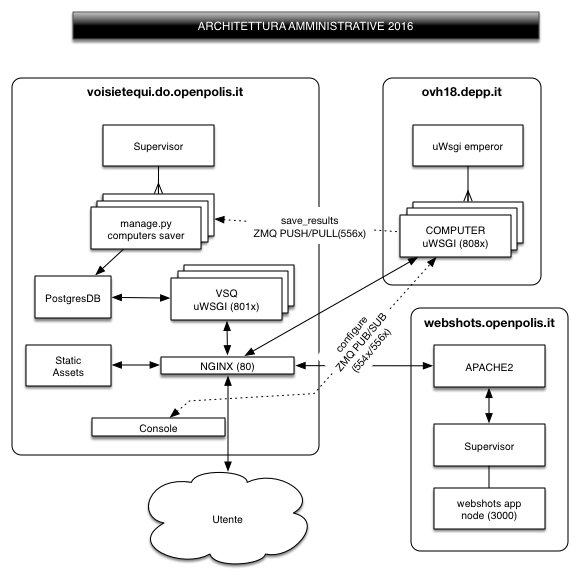
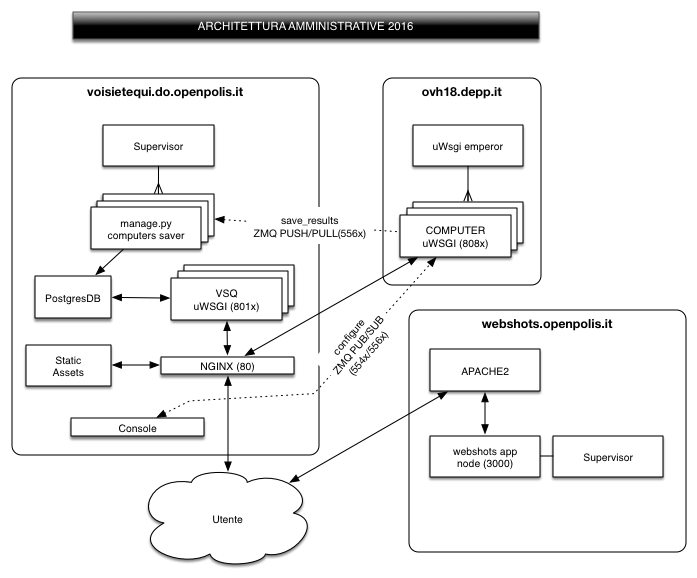
aggiornamento documentaazione

diff --git a/docs/architecture.rst b/docs/architecture.rst
@@ -2,28 +2,84 @@ Architettura
 ------------
 L'architettura del sistema, con le componenti, è illustrata in questo schema:
 
-.. image:: https://raw.github.com/openpolis/voisietequi/master/docs/images/architettura.png
+.. image:: https://raw.github.com/openpolis/voisietequi/master/docs/images/architettura2016.png
    :height: 200
    :width: 600
    :scale: 50
    :alt: Architettura dei componenti
 
-Il modulo **vsq** è l'app server per tutte le parti dinamiche, tranne le risposte degli utenti.
-E' un'applicazione django, si appoggia su un DB postgres.
 
-Il modulo **computer** effettua il calcolo del grafico (tramite octave) a partire dalle risposte dell'utente.
-E' un'applicazione web.py, si appoggia su un DB sqlite locale, è configurabile dinamicamente,
-per fornire la posizione di un utente in base a un set di domande.
+VSQ
+===
+Il modulo **vsq** è l'applicazione django che permette la visualizzazione e la gestione del sito
+relativo a una singola istanza. Ad esempio: http://rom2016.voisietequi.it. 
+Sia la parte di front-end che quella di back-end dell'applicazione sono generate da questo modulo, 
+che, si appoggia su un DB postgres.
 
-Il modulo utilizza un sistema di messaggistica (**0mq**) per mettere in coda le richieste
-di scrittura delle risposte utente nel DB.
 
-I moduli vsq e computer sono applicazioni wsgi, servite da **uwsgi**.
+COMPUTER
+========
+Il modulo **computer** effettua il calcolo della posizione degli utenti o dei partiti (tramite octave) a partire dalle risposte date.
+E' configurato come un servizio esterno *disaccoppiato* rispetto alla applicazione principale.
+E' un'applicazione web (web.py), configurabile dinamicamente da remoto, attraverso dei messaggi ZMQ appositi.
+Il suo compito principale è fornire la posizione di un utente in base alle risposte date al set di domande,
+conoscendo le risposte date dai partiti (inviate nel messaggio di configurazione).
 
-**Nginx** è utilizzato per servire i contenuti statici, fa da load balancer per le richieste indirizzate al modulo *computer*,
-indirizza le richieste dinamiche all'application server django, risponde su porta 8010.
+Il modulo utilizza il sistema di messaggistica (**0mq**) sia per mettere in coda le richieste
+di scrittura delle risposte utente nel DB, sia ricevere messaggi di configurazione da remoto. 
+In particolare, sono usati:
 
-**Varnish**  è il web server (cache e reverse proxy), risponde su porta 80.
+  - una versione modificata del pattern Pipeline (http://rfc.zeromq.org/spec:30)
+per l'invio dei risultati del calcolo al server che ha il compito di effettuare la scrittura sul DB;
+i computer inviano i risultati su un socket di tipo PUSH/PULL;
+  - il pattern Publish and Subscribe (http://rfc.zeromq.org/spec:29) per l'invio 
+da remoto dei messaggi di configurazione del computer; i computer sottoscrivono un canale PUB/SUB sul 
+quale ricevono i messaggi;
+
+
+
+WEBSHOTS
+========
+Il modulo **webshots** effettua la rasterizzazione del contenuto visualizzato da un browser,
+in una certa URL. E' un modulo generico, riadattato per voisietequi, in modo che risponda esclusivamente
+a richieste con url ``/vsq-screenshots``.
+Il suo compito è si trasformare l'html + javascript d3 che genera la mappa di un risultato utente in
+un'immagine raster, in modo che essa possa essere scaricata e condivisa.
+
+E' un'applicazione express (node.js), che utilizza phantomJS (http://phantomjs.org/screen-capture.html).
+
+
+SAVER
+=====
+Il modulo **saver** implementa il socket PULL del pattern Pipeline per la ricezione dei messaggi contenenti
+le risposte al test degli utenti e il loro posizionamento (coordinate) rispetto ai partiti. 
+La ricezione di un messaggio scatena l'inserimento di risultati e posizionamento nel DB.
+
+
+DEPLOY
+======
+Il deploy dell'istanza è fatto attraverso ansible, il codice del deploy è in un repository privato.
+
+Il sito web (modulo VSQ) è servito da uWSGI, su porte 8011-8015 (vedi tabella seguente).
+I singoli servizi sono definiti in upstart con nome ``voisietequi-roma2016-uwsgi`` e simili.
+
+**Nginx** è utilizzato per servire i contenuti statici del sito, 
+fa da load balancer per le richieste indirizzate ai moduli *vsq*, *computer*, e *webshots*.
+Quando è attivo varnish, risponde su porta 8001, altrimenti direttamente su porta 80.
+
+**Varnish**  è il web server (cache e reverse proxy), quando necessario risponde su porta 80.
+
+Il modulo saver è lanciato e tenuto in piedi attraverso ``supervisord``, ed è un management task di django.
+Il bind al socket di tipo PULL avviene su porta 5561-5565 (vedi tabella).
+
+Il modulo computer è servito da uwsgi in modalità emperor e l'emperor è nell'upstart, con nome uwsgi, 
+i servizi gestiti sono in ``/etc/uwsgi/vassals``. Le porte sono 8081-8085 (vedi tabella).
+
+Il modulo webshots è direttamente servito da node su porta 3000, tenuto in piedi da supervisor e
+apache risponde su porta 80 del dominio webshots.openpolis.it, effettuando un proxy su porta 3000.
+
+
+
 
 
 Descrizione dei processi
